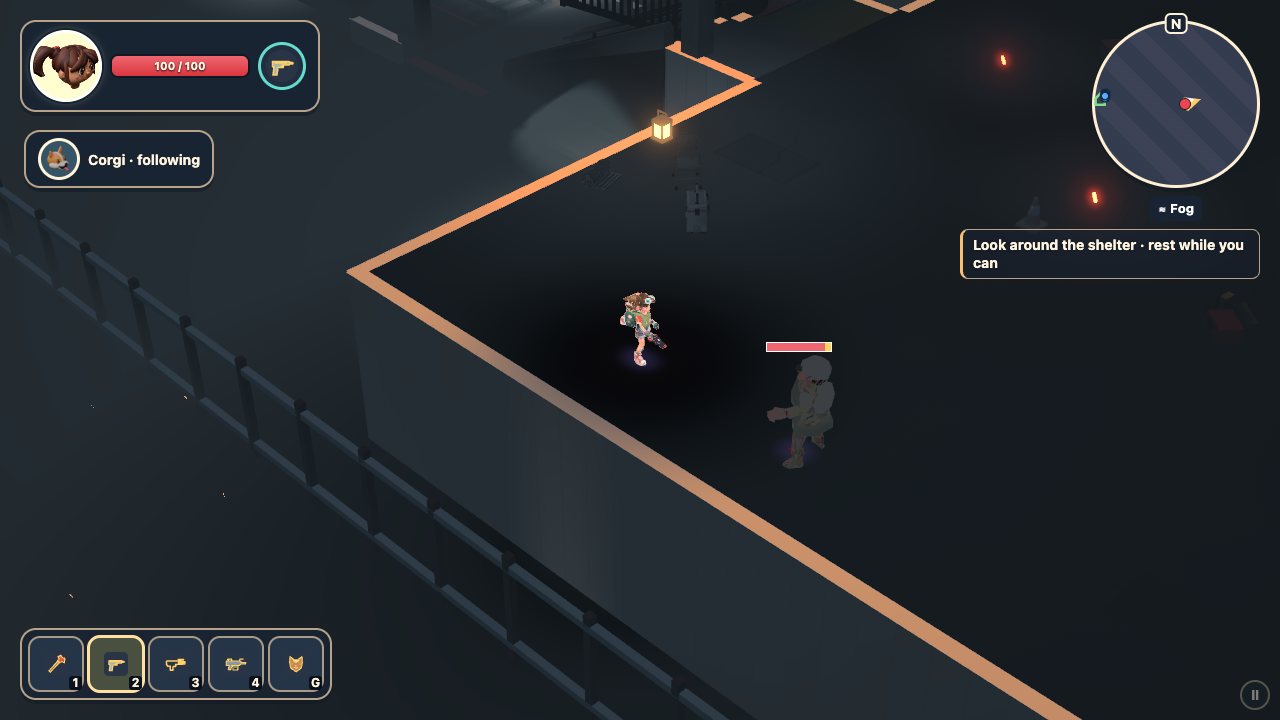
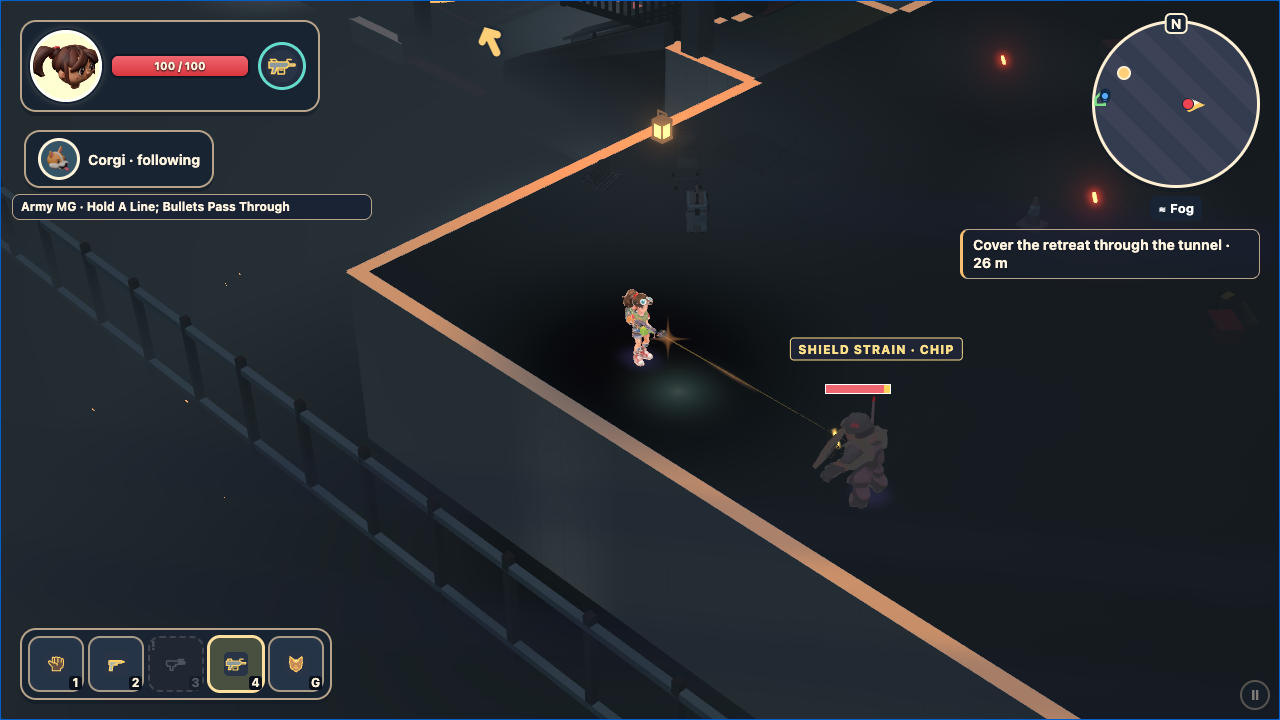
Keep shield feedback clear of health bar

diff --git a/src/ui/Hud.ts b/src/ui/Hud.ts
@@ -249,7 +249,8 @@ export class Hud {
       const p = this.game.view.project(event.position.x, event.position.y + 1.2, event.position.z);
       this.shieldBlock.textContent = event.shieldBreak ? 'SHIELD BROKEN · 1.5s' : event.shieldGlance ? 'SHIELD STRAIN · CHIP' : 'BLOCKED · FLANK';
       this.shieldBlock.style.left = `${Math.max(10, Math.min(90, (p[0] + 1) * 50))}%`;
-      this.shieldBlock.style.top = `${Math.max(18, Math.min(85, (1 - p[1]) * 50))}%`;
+      // Leave the head-anchored health bar visible beneath the shield cue.
+      this.shieldBlock.style.top = `calc(${Math.max(18, Math.min(85, (1 - p[1]) * 50))}% - 48px)`;
       this.shieldBlockUntil = this.game.world.tick + (event.shieldBreak ? 90 : 30);
       return;
     }

diff --git a/docs/reports/s240-l6immune/README.md b/docs/reports/s240-l6immune/README.md
@@ -18,7 +18,7 @@ The armored front plate halves frontal damage and flank hits take full damage. T
 
 - Native L6 simulation probe at exit (263.91, 28.08; player y 4.62) and tunnel (110, 15; y 1.27): production armored actors initially 1/2 m away for axe and 2/5/8 m for firearms; real held-input attack runner and hit query. [Per-hit records](native-hits.json) show positive hits for all four weapons at both locations: axe 39.2, handgun 10, MG 7, shotgun 120 initially with falloff on later shots. The 3 s samples include actor movement and shotgun knockback, so distances are starting positions only; shotgun downed at 2/5 m, other samples ended before downing. This is a controlled simulation, not a visual or physical-pointer review.
 
-- A fresh high-tier WebGL2 capture at the exit platform applies one controlled frontal MG damage event (240 → 233 HP) to an armored actor. [Capture](first-hit-high.png) was opened: the red bar appears above the dark helmeted figure; the six-pixel gold chip is distinct against the red fill and white outline at 1280 × 720. The previous implementation capped the chip to the missing slice, defeating its minimum width; the marker now overlaps the fill while staying within the bar. The first capture exposed that an initially hidden bar had no previous render state; the hit event now seeds that state before first presentation. The existing contact test covers this case and passed. This capture uses direct damage, not physical input, and does not establish visual readability for every weapon.
+- A fresh high-tier WebGL2 capture at the exit platform applies one controlled frontal MG damage event (240 → 233 HP) to an armored actor. The earlier capture was opened: the red bar appears above the dark helmeted figure; the six-pixel gold chip is distinct against the red fill and white outline at 1280 × 720. The previous implementation capped the chip to the missing slice, defeating its minimum width; the marker now overlaps the fill while staying within the bar. The first capture exposed that an initially hidden bar had no previous render state; the hit event now seeds that state before first presentation. The existing contact test covers this case and passed. This capture uses direct damage, not physical input, and does not establish visual readability for every weapon.
 
 - [Physical pointer receipt](pointer-hits.json): high-quality WebGL2, protected courier, controlled production armored actors at exit and tunnel, initially 1.4 m (axe) or 5 m (guns), tracked mouse aim, stepped simulation. Every weapon downed its actor at both locations: seven axe hits, 24 handgun hits, two shotgun hits, 35 MG hits. Actors were permitted to move. This is not a crowded retreat replay or a several-distance pointer matrix.
 
@@ -27,6 +27,8 @@ The armored front plate halves frontal damage and flank hits take full damage. T
 - [Two-heavy crowd probe](crowd-hits.json): high-tier headless WebGL2 at the exit, two spawned armored actors and three runners placed nearby, protected courier, tracked mouse MG fire with stepped simulation. Both armored actors reached 0 HP. During fire at the first, hits also landed on the second and two runners; the first received 35 hits and the second was then downed in 29 further hits. The before capture was inspected: two gray helmeted armored figures and two visible ordinary figures appear against the dark platform, with one additional runner outside the visible view. This controlled starting composition is not the PO save or the actual retreat step, and it does not establish why the original bars remained full. No page errors were recorded.
 
 - [Riot pointer probe](riot-pointer.json): actual shielded 225 HP riot spawned in the L6 retreat step at the exit and tunnel, with protected courier and tracked mouse input; fresh level per case, actors allowed to move. Axe, handgun, shotgun and MG all downed it in both locations. Frontal MG hits begin at 2.52 HP and break the shield on hit six; handgun begins at 3.6 HP and breaks it on hit four; shotgun breaks it in one hit; axe deals full melee damage. These are controlled spawn/placement cases, not the PO save or a crowd replay. No page errors.
+
+- [High-tier shield capture](first-hit-high.png), [hit event](riot-visual.json): in active L6 retreat at the exit, actual mouse-fired MG hit a 225 HP riot for 2.52 HP. The opened image shows a yellow spark on the shield, a red health bar with a gold chip, and the “SHIELD STRAIN · CHIP” label. The first capture exposed that the label covered the bar; the label now sits 48 px higher. This is a controlled protected-courier fixture, not the PO save. No page errors.
 
 ## Open
 
